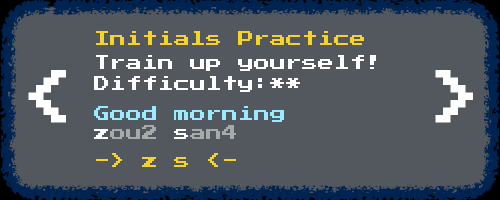
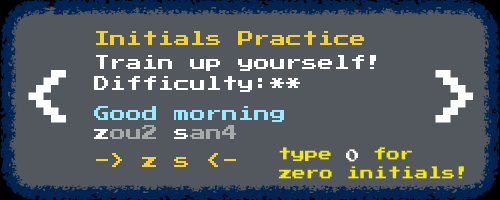
minor fixes

diff --git a/question.js b/question.js
@@ -169,7 +169,7 @@ var BANK = [
 {"text":"人", "lshk":"jan", "full":"jan4", "initial":"j", "rhyme":"an", "tone":"4", "sound":"cfe0168.mp3" , "english":"people; person"},
 //{"text":"英文", "lshk":"Jing Man", "full":"Jing1 Man4", "initial":"j m", "rhyme":"ing an", "tone":"1 4", "sound":"cfe0169.mp3" , "english":"English language"},
 {"text":"影相", "lshk":"jing soeng", "full":"jing2 soeng2", "initial":"j s", "rhyme":"ing oeng", "tone":"2 2", "sound":"cfe0170.mp3" , "english":"take photographs"},
-{"text":"旅行", "lshk":"leoi hang", "full":"leoi5 hang4", "initial":"l h", "rhyme":"eoi ang", "tone":"5 4", "sound":"cfe0171.mp3" , "english":"travel (N) traveling"},
+{"text":"旅行", "lshk":"leoi hang", "full":"leoi5 hang4", "initial":"l h", "rhyme":"eoi ang", "tone":"5 4", "sound":"cfe0171.mp3" , "english":"travel; traveling"},
 {"text":"老闆", "lshk":"lou baan", "full":"lou5 baan2", "initial":"l b", "rhyme":"ou aan", "tone":"5 2", "sound":"cfe0172.mp3" , "english":"boss"},
 {"text":"乜嘢科", "lshk":"mat je fo", "full":"mat1 je5 fo1", "initial":"m j f", "rhyme":"at e o", "tone":"1 5 1", "sound":"cfe0173.mp3" , "english":"what subject?"},
 {"text":"乜嘢人", "lshk":"mat je jan", "full":"mat1 je5 jan4", "initial":"m j j", "rhyme":"at e an", "tone":"1 5 4", "sound":"cfe0174.mp3" , "english":"what people?"},
@@ -580,6 +580,9 @@ function Question(mode, id){
   };
 
   this.check = function(mode, attempt) {
+    if (mode == MODE_INITIAL || mode == MODE_FINAL) {
+      return this.lshk.toLowerCase() == attempt;  
+    }
     return this.lshk.replaceAll(" ","").toLowerCase() == attempt.replaceAll(" ","");
   };  
 }
